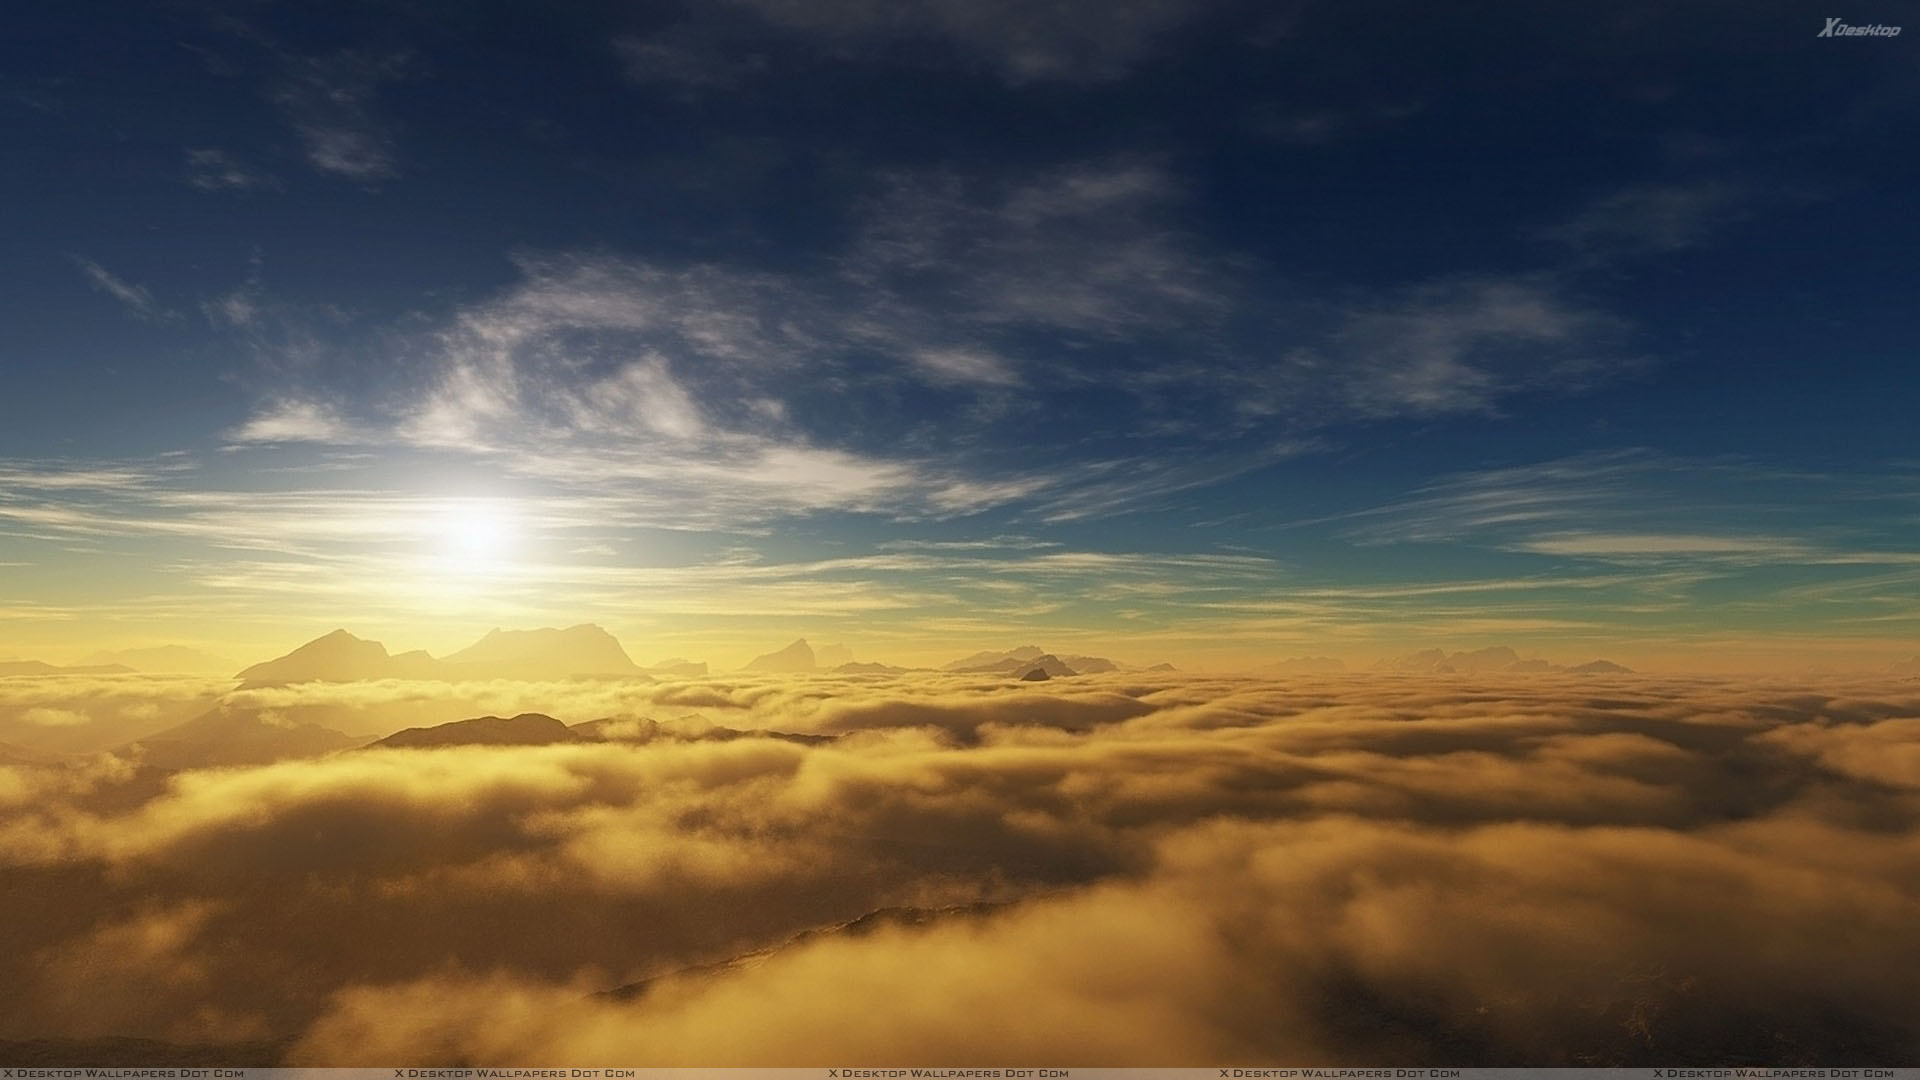
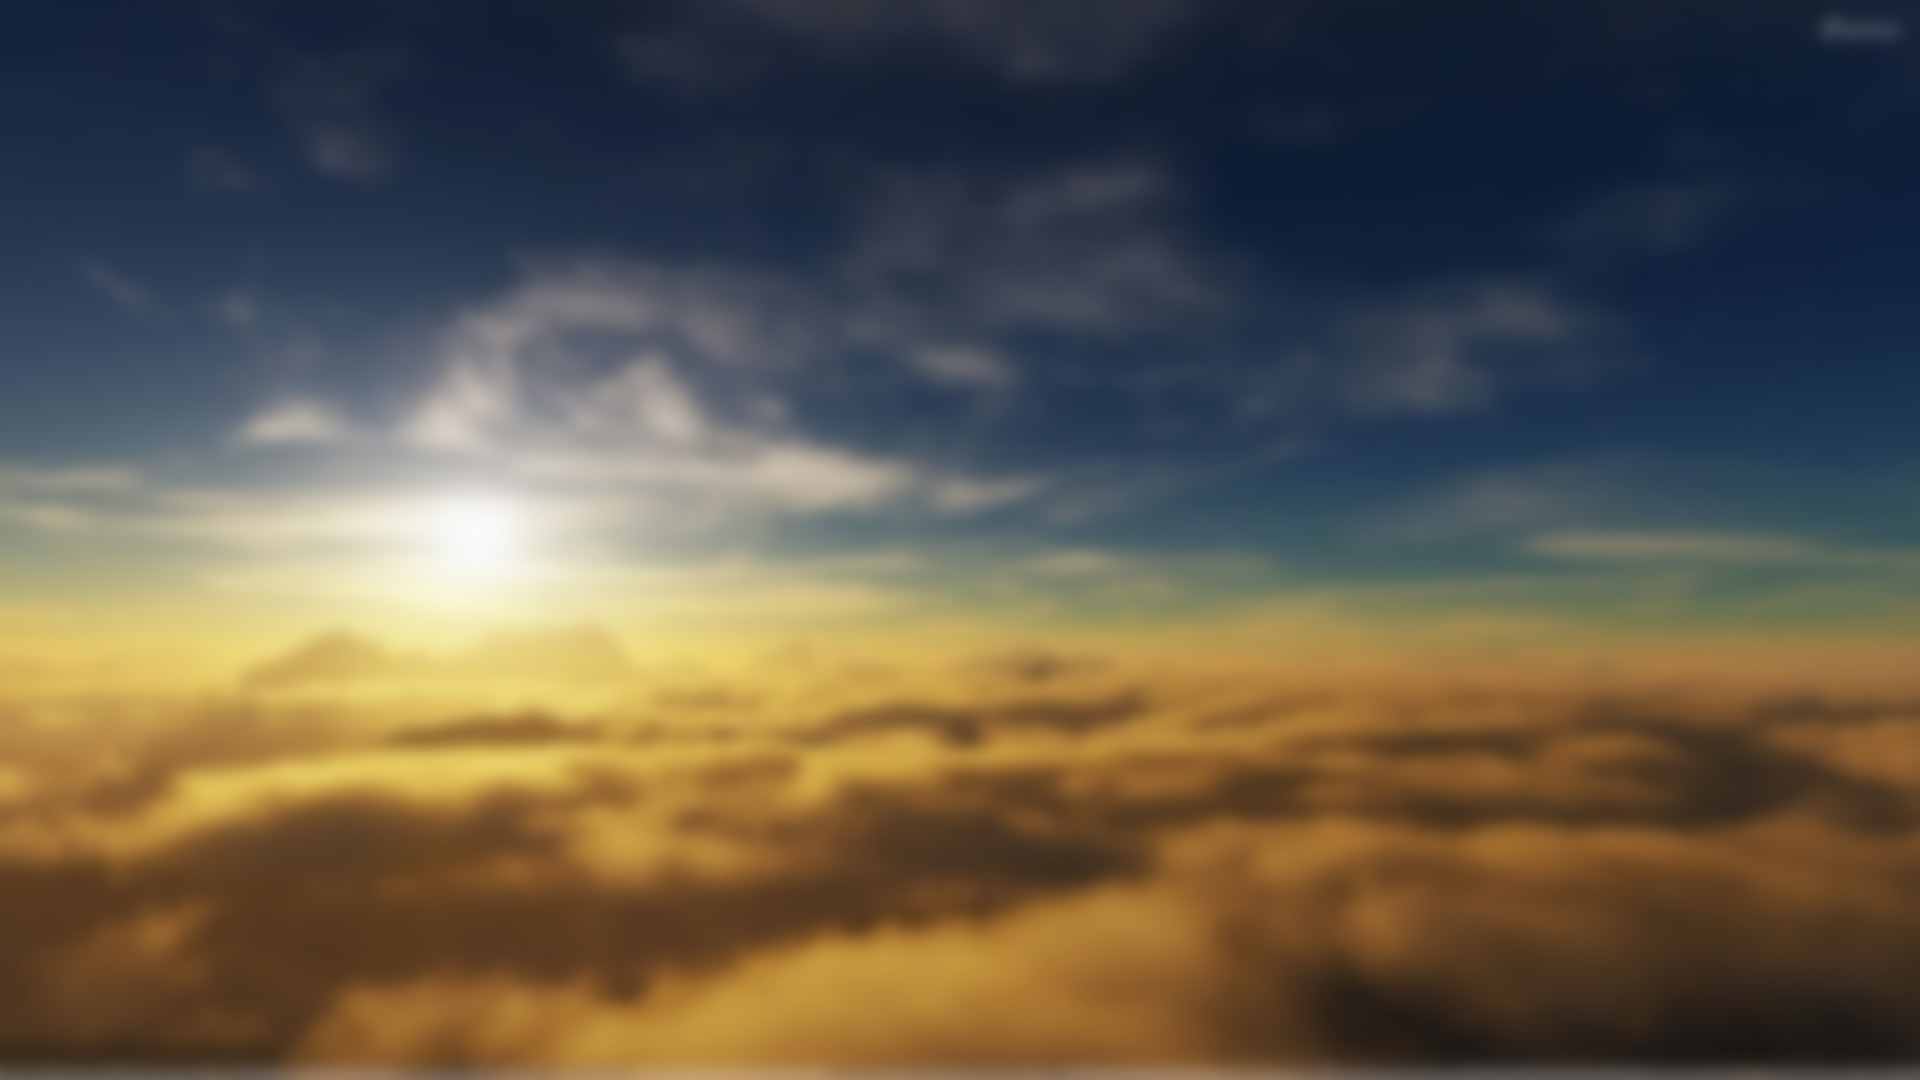
wip on background blurring and adapt zoom to screen

diff --git a/app/src/css/main.css b/app/src/css/main.css
@@ -30,13 +30,19 @@ html{
 }
 
 body{
+  
   /*font-family: "Roboto" !important;*/
   font-family: "SanFranciscoThin" !important;
   font-size: 0.9em;
   padding: 0px;
-  margin: 0px;
-  background: rgba(0,0,0,0.8);
+  /*margin: 0px;*/
+  margin: 0px 200px 0px 200px;
+  /* Remember, to convert img:   convert circle_on_blue.png    -blur 0x8         circle_on_blue_blur.png (dep. imagemagick)*/
+  background: url(img/bg.jpg); 
+  background-size: cover;
+  /*background: rgba(255,255,255,0.9);*/
   color: #ffffff;
+  
 }
 
 /* left menu properties */
@@ -64,6 +70,9 @@ body{
   box-shadow: 0 8px 6px -6px black, inset 0 0 15px #000000;*/
   display: block;
   position: relative;
+  
+  overflow-x: hidden;
+  
 }
 
 #fillLeftPanel{
@@ -146,6 +155,7 @@ body{
 	margin-bottom: 200px;
 	margin-left: 100px;
 	overflow-y: hidden;
+	overflow-x: hidden;
 }
 
 .SectionContainer{

diff --git a/app/src/js/WindowManager.js b/app/src/js/WindowManager.js
@@ -43,6 +43,16 @@ WindowManager.prototype.generateMenu=function generateMenu(callback){
       self.appWindow.y=window.screen.availTop;
       self.appWindow.width=window.screen.availWidth;
       self.appWindow.height=window.screen.availHeight;
+      
+
+      // Adjust UI size to screen resolution
+      // UI is designed for 1366x732, in function of this, we'll adjust scale factor.
+      console.log(window.screen.availHeight/732);
+      var scalefactor=window.screen.availHeight/732;
+      console.log("SF:"+ scalefactor);
+      if (scalefactor<0.9 || scalefactor >1.1) $('body').css('zoom', scalefactor);
+      
+      
       //self.appWindow.width=window.screen.availWidth-window.screen.availLeft;
       //self.appWindow.height=window.screen.availHeight-window.screen.availTop;
       

diff --git a/app/src/main.html b/app/src/main.html
@@ -1,10 +1,10 @@
 <html>
     <head>
         <link rel="stylesheet" href="css/title.css">
-            <!--link rel="stylesheet" href="css/main.css"-->
-            <link rel="stylesheet" href="css/main_white.css">
-        <link rel="stylesheet" href="css/AppManager_white.css">
-        <!--link rel="stylesheet" href="css/AppManager.css"-->
+            <link rel="stylesheet" href="css/main.css">
+            <!--link rel="stylesheet" href="css/main_white.css"-->
+        <!--link rel="stylesheet" href="css/AppManager_white.css"-->
+        <link rel="stylesheet" href="css/AppManager.css">
         <script type="text/javascript" src="lib/jquery-2.1.0.min.js"></script>
         
         <!--script type="text/javascript" src="js/MainWindowManager.js"></script-->

diff --git a/app/src/css/AppManager.css b/app/src/css/AppManager.css
@@ -5,6 +5,7 @@
 	height: 100%;
 	/*font-family: "RobotoLight";*/
 	font-family: "SanFranciscoThin" !important;
+	overflow: hidden;
 }
 
 
@@ -315,20 +316,20 @@ div.app:hover span{ /*display:block;*/
 
 
 ::-webkit-scrollbar {
-width: 12px;
+width: 5px;
 }
 
 ::-webkit-scrollbar-track {
--webkit-box-shadow: inset 0 0 6px     rgba(0,0,0,0.3); 
-border-radius: 10px;
-height: :20px;
+-webkit-box-shadow: inset 0 0 5px     rgba(0,0,0,1); 
+border-radius: 0px;
+height: :10px;
 }
 
 
 ::-webkit-scrollbar-thumb {
-border-radius: 10px;
--webkit-box-shadow: inset 0 0 6px     rgba(0,0,0,0.5); 
-height:20px;
+border-radius: 0px;
+-webkit-box-shadow: inset 0 0 6px     rgba(255,255,255,1); 
+height:10px;
 }
 
 
